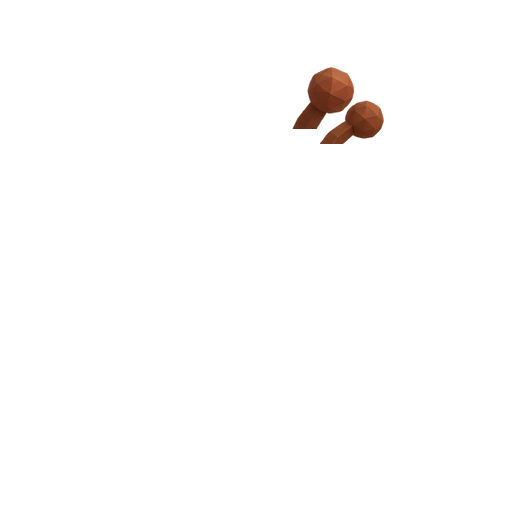
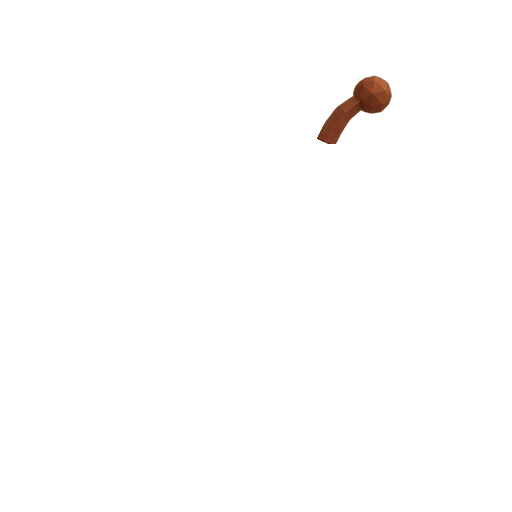
art: preserve chosen hat fit and lift only front antenna

Changed region(s): [[0.5625, 0.125, 0.7812, 0.2812]]

diff --git a/scripts/art_asset_catalog.py b/scripts/art_asset_catalog.py
@@ -80,12 +80,12 @@ def classify(rel):
         category={'tiles':'Глифы и соты','ui':'Награды и усилители','env':'Фоны и грядки','garden':'Растения','costumes':'Наряды','deco':'Декор','trick':'Декор','flight':'Ночной полёт'}.get(section,'Макеты и проверки')
         status='Кандидат / вариант';season='Хеллоуин';style='Медовый кристалл'
         if section=='review':role='Лист / сравнение'
-        if section=='review' and stem in {'witchhat-profile-v3','witchhat-profile-check-v3','witchhat-side-fix-v2','witchhat-profile-v4','witchhat-profile-check-v4'}:status='Архив / пробы'
+        if section=='review' and stem in {'witchhat-profile-v3','witchhat-profile-check-v3','witchhat-side-fix-v2','witchhat-profile-v4','witchhat-profile-check-v4','witchhat-profile-v5','witchhat-profile-check-v5'}:status='Архив / пробы'
     title=TITLES.get(stem,stem.replace('_',' ').replace('-',' '))
     if p.startswith('design/2d/halloween/'):
         title={'bg_sky':'Ночной полёт / небо','bg_far':'Ночной полёт / дальние холмы','bg_near':'Ночной полёт / передний план','parallax-repeat-check':'Фоны полёта / проверка повторов','parallax-scene':'Ночной полёт / общий вид','parallax-motion':'Ночной полёт / проба параллакса'}.get(stem,title)
         if p.startswith('design/2d/halloween/flight/') and stem=='icon':title='Иконка Ночного полёта'
-        if stem.startswith('witchhat-'):title='Ведьминская шляпа / '+{'witchhat-front-view':'спереди','witchhat-q3-front-view':'три четверти','witchhat-side-view':'профиль','witchhat-fit-v1':'примерка трёх ракурсов','witchhat-profile-v4':'отклонённый профиль v4','witchhat-profile-check-v4':'отклонённая примерка v4','witchhat-profile-v5':'новый профиль / кандидат','witchhat-profile-check-v5':'сравнение с профилем Жужи'}.get(stem,stem)
+        if stem.startswith('witchhat-'):title='Ведьминская шляпа / '+{'witchhat-front-view':'спереди','witchhat-q3-front-view':'три четверти','witchhat-side-view':'профиль','witchhat-fit-v1':'примерка трёх ракурсов','witchhat-profile-v4':'отклонённый профиль v4','witchhat-profile-check-v4':'отклонённая примерка v4','witchhat-profile-v5':'новый профиль / кандидат','witchhat-profile-check-v5':'отклонённая примерка v5','witchhat-profile-v6':'выбранная посадка / передний усик','witchhat-profile-check-v6':'один усик и крылья / сравнение'}.get(stem,stem)
     if 'glyph-contrast-options' in p:
         title={'01-soft-crystal':'Глифы · Мягкий кристалл','02-matte-pastel':'Глифы · Матовая пастель','03-warm-wax':'Глифы · Тёплый воск','04-halloween':'Глифы · Ранний Хеллоуин','04a-halloween-soft-crystal':'Глифы · Хеллоуин 4А / кристалл','04b-halloween-matte-pastel':'Глифы · Хеллоуин 4Б / пастель','bomb-compact':'Компактная бомба'}.get(stem,title)
     if species and accessory:title=f'{species} · {accessory} · {stem}'
